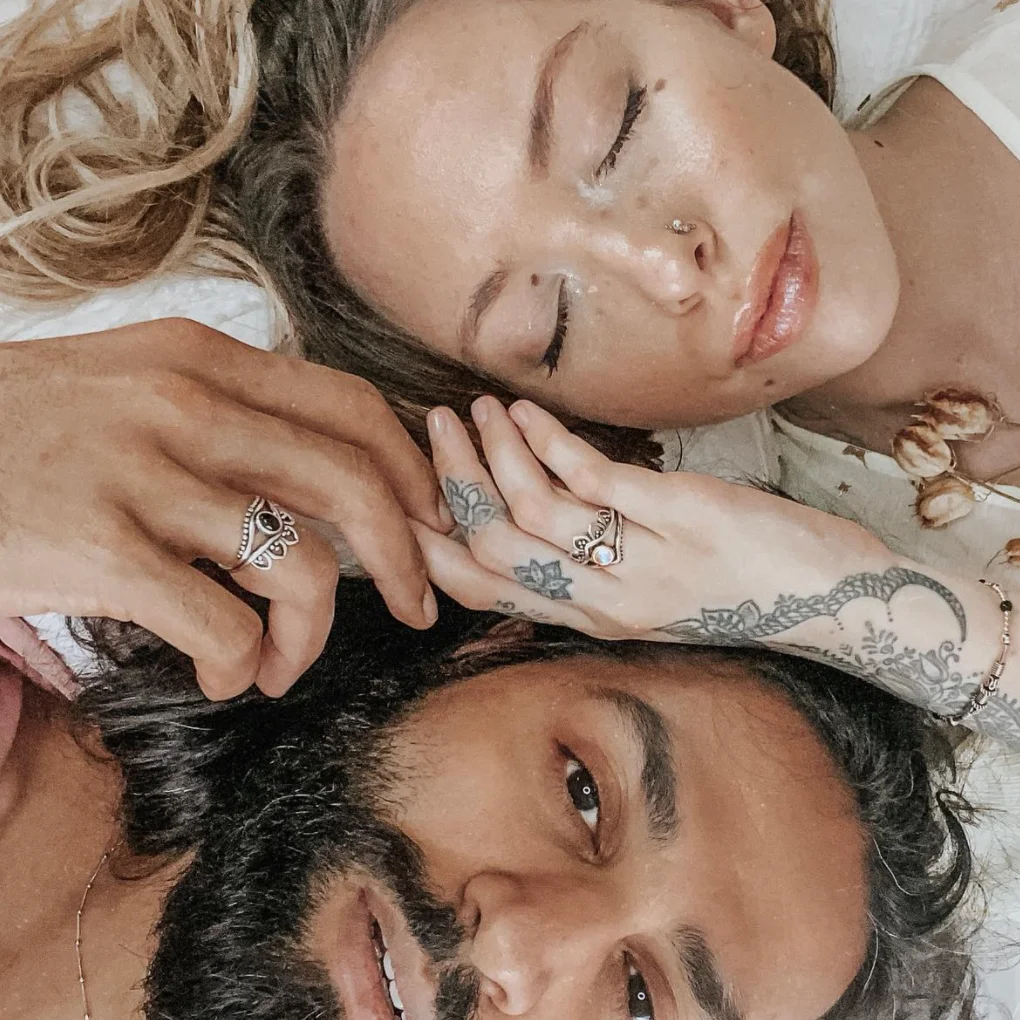
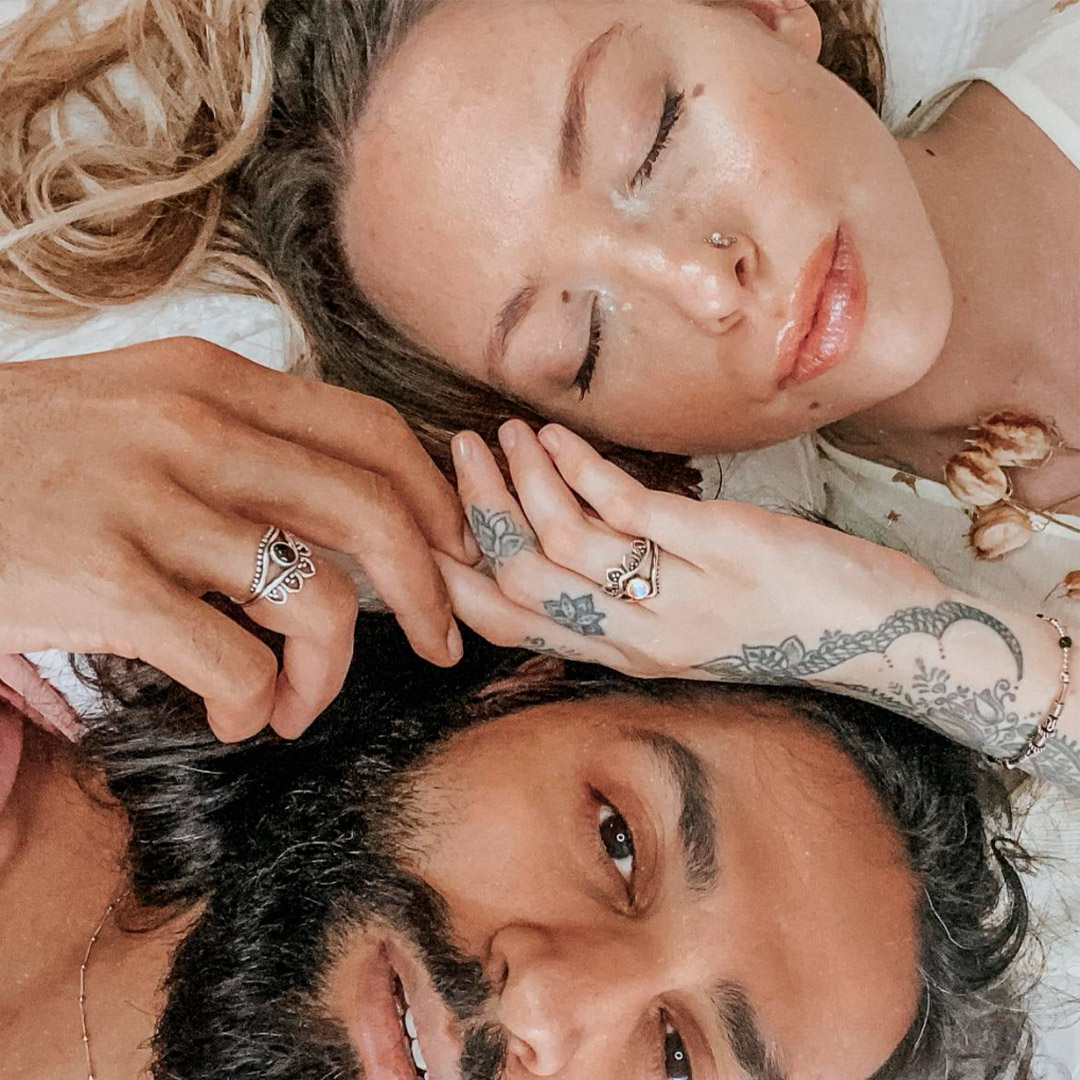
added aspect ratio and compressed images

diff --git a/sass/views/_home.scss b/sass/views/_home.scss
@@ -54,27 +54,9 @@
     width: 100%;
     height: 100%;
     object-fit: cover;
+    aspect-ratio: 1/2;
 }
 
-/*contenedor paginacion con flechas*/
-// .container-paginacion-flechas{
-//     display: flex;
-//     justify-content: space-around;
-    
-
-// }
-// .swiper-pagination{
-//     grid-column:-3 ;
-//     grid-row: 1/2;
-// }
-// .swiper-pagination{
-//     position: inherit;
-//     margin-top: 1em;
-//     display: flex;
-//     justify-content: center;
-//     font-family: $headers;
-//     font-size: 1em;
-// }
 .swiper-button-prev{
     grid-column:1/-3 ;
     grid-row: 3/3;
@@ -88,14 +70,13 @@
     margin-left: 2em;
     margin-top: 2em;
     position: inherit ;
+    &::after{
+        color: #000;
+        font-family:$headers ;
+        content:"<" ;
+    }
 }
-.swiper-button-prev::after{
-    // font-size: 60px;
-    color: #000;
-    font-family:$headers ;
-    content:"<" ;
-    
-}
+
 .swiper-button-disabled {
     opacity: 100% ;
 }
@@ -112,14 +93,12 @@
     margin-right: 2em;
     margin-top: 2em;
     position: inherit ;
-}
-
-.swiper-button-next::after{
-    // font-size: 100px;
-    color: #000;
-    font-family: $headers ;
-    content:">" ;
-    opacity: 100% !important;
+    &::after{
+        color: #000;
+        font-family: $headers ;
+        content:">" ;
+        opacity: 100% !important;
+    }
 }
 
 .swiper-pagination{
@@ -223,16 +202,12 @@
         
         &__title{
             margin: {
-                
                 bottom: 1em;
             }
             // position: absolute;
             width: 350px;
             font-size: 20px;
         }
-        // &__cta{
-        //     margin-top: 6em;
-        // }
     }
 }
 @media (min-width:2000px){
@@ -245,6 +220,7 @@
     
     &__image{
         width: 100%;
+        aspect-ratio: 1/1;
     }
     &__title{
         font-family: $headers;
@@ -302,7 +278,7 @@
         width: 95%;
         position: absolute;
         z-index:-1;
-        
+        aspect-ratio: 1/2;
     }
     &__title{
         display: flex;
@@ -448,6 +424,7 @@
             width: 80%;
             margin-left: 0;
             margin-right: $exterior-margen;
+            aspect-ratio: 1/1;
         }
         &__text{
             @include text-values;
@@ -461,6 +438,7 @@
         &__img{
             width: 80%;
             margin-left: 82px;
+            aspect-ratio: 1/1;
         }
         &__text{
             @include text-values;
@@ -470,6 +448,7 @@
         &__img{
             width: 80%;
             margin-left: 39px;
+            aspect-ratio: 1/1;
         }
         &__title{
             @include titles-values;
@@ -509,6 +488,7 @@
         transform: rotate(90deg);
         width: 300px;
         height: 300px;
+        aspect-ratio: 1/1;
         // width: 80%;
         border-top-right-radius: 50%;
         border-top-left-radius: 50%;
@@ -520,7 +500,7 @@
         &__imgRing{
             margin-top: $atom-margin;
             width: 200px;
-            
+            aspect-ratio: 1/1;
         }
         &__table{
             margin-top: $atom-margin;
@@ -580,6 +560,7 @@
             align-self: flex-end;
             order: -1;
             margin-left: -80px;
+            aspect-ratio: 1/1;
         }
         &__container{
             margin: 0 auto;

diff --git a/css/main.css b/css/main.css
@@ -425,9 +425,9 @@ body {
   height: 100%;
   -o-object-fit: cover;
      object-fit: cover;
+  aspect-ratio: 1/2;
 }
 
-/*contenedor paginacion con flechas*/
 .swiper-button-prev {
   grid-column: 1/-3;
   -ms-grid-row: 3;
@@ -445,7 +445,6 @@ body {
   margin-top: 2em;
   position: inherit;
 }
-
 .swiper-button-prev::after {
   color: #000;
   font-family: PP Hatton;
@@ -474,7 +473,6 @@ body {
   margin-top: 2em;
   position: inherit;
 }
-
 .swiper-button-next::after {
   color: #000;
   font-family: PP Hatton;
@@ -636,6 +634,7 @@ body {
 /*HOME-SECTION MI JOYA PERFECTA*/
 .section-miJoyaPerfecta__image {
   width: 100%;
+  aspect-ratio: 1/1;
 }
 .section-miJoyaPerfecta__title {
   font-family: PP Hatton;
@@ -697,6 +696,7 @@ body {
   width: 95%;
   position: absolute;
   z-index: -1;
+  aspect-ratio: 1/2;
 }
 .section-linksShop__title {
   display: -webkit-box;
@@ -861,6 +861,7 @@ body {
   width: 80%;
   margin-left: 0;
   margin-right: 45px;
+  aspect-ratio: 1/1;
 }
 .section-values__container-silver__text {
   margin-left: 45px;
@@ -876,6 +877,7 @@ body {
 .section-values__container-piedras__img {
   width: 80%;
   margin-left: 82px;
+  aspect-ratio: 1/1;
 }
 .section-values__container-piedras__text {
   margin-left: 45px;
@@ -886,6 +888,7 @@ body {
 .section-values__container-boho__img {
   width: 80%;
   margin-left: 39px;
+  aspect-ratio: 1/1;
 }
 .section-values__container-boho__title {
   font-family: PP Hatton;
@@ -919,6 +922,7 @@ body {
           transform: rotate(90deg);
   width: 300px;
   height: 300px;
+  aspect-ratio: 1/1;
   border-top-right-radius: 50%;
   border-top-left-radius: 50%;
 }
@@ -937,6 +941,7 @@ body {
 .section-sizeGuide__container__imgRing {
   margin-top: 1.2em;
   width: 200px;
+  aspect-ratio: 1/1;
 }
 .section-sizeGuide__container__table {
   margin-top: 1.2em;
@@ -1090,6 +1095,7 @@ body {
         -ms-flex-order: -1;
             order: -1;
     margin-left: -80px;
+    aspect-ratio: 1/1;
   }
   .section-sizeGuide__container {
     margin: 0 auto;
@@ -1218,6 +1224,7 @@ body {
   transition: -webkit-transform 0.2s ease-in;
   transition: transform 0.2s ease-in;
   transition: transform 0.2s ease-in, -webkit-transform 0.2s ease-in;
+  aspect-ratio: 1/1;
 }
 .product__image:hover {
   -webkit-transform: scale(1.1);
@@ -1510,6 +1517,7 @@ body {
 }
 .container-resultsImage__imgResultTest {
   width: 100%;
+  aspect-ratio: 1/1;
 }
 .container-resultsImage__nameResult {
   margin-top: 10px;
@@ -1545,6 +1553,7 @@ body {
   }
   .container-resultsImage__imgResultTest {
     width: 100%;
+    aspect-ratio: 1/1;
   }
   .container-resultsImage__nameResult {
     font-size: 18px;
@@ -1559,6 +1568,7 @@ body {
 /*SECCIÓN COMPRAR PRODUCTO*/
 .comprar-container__img {
   width: 100%;
+  aspect-ratio: 1/1;
 }
 .comprar-container__container-text {
   display: -webkit-box;
@@ -1624,6 +1634,7 @@ body {
   .comprar-container__img {
     margin-left: 118px;
     width: 40%;
+    aspect-ratio: 1/1;
   }
   .comprar-container__titleYprice {
     margin-left: 45px;

diff --git a/sass/views/_comprar.scss b/sass/views/_comprar.scss
@@ -2,6 +2,7 @@
 .comprar-container{
     &__img{
         width: 100%;
+        aspect-ratio: 1/1;
     }
     &__container-text{
         display: flex;
@@ -56,6 +57,7 @@
         &__img{
             margin-left: $section-margin;
             width: 40%;
+            aspect-ratio: 1/1;
         }
         &__titleYprice{
             margin-left: $exterior-margen;

diff --git a/sass/views/_imagesTest.scss b/sass/views/_imagesTest.scss
@@ -19,6 +19,7 @@
     }
     &__imgResultTest{
         width: 100%;
+        aspect-ratio: 1/1;
     }
     &__nameResult{
         margin-top:10px;
@@ -53,6 +54,7 @@
         }
         &__imgResultTest{
             width: 100%;
+            aspect-ratio: 1/1;
         }
         &__nameResult{
             font-size: $p-desk;

diff --git a/sass/views/_shop.scss b/sass/views/_shop.scss
@@ -155,6 +155,7 @@
             width: 100%;
             object-fit:cover;
             transition: transform .2s ease-in;
+            aspect-ratio: 1/1;
             &:hover{
                 transform: scale(1.1);
             }

diff --git a/php/slider.php b/php/slider.php
@@ -4,11 +4,11 @@
             <h1 class="title-jewlery">Terralava</h1>
             <div class="swiper mySwiper">
                 <div class="swiper-wrapper">
-                    <div class="swiper-slide"><img src="./images/slider/slider4.webp" alt="hand with different types rings"></div>
-                    <div class="swiper-slide"><img src="./images/slider/slider2.webp" alt="vase with necklace called lotus necklace"></div>
-                    <div class="swiper-slide"><img src="./images/slider/slider3.webp" alt="model showing earrings called idril"></div>
-                    <div class="swiper-slide"><img src="./images/slider/slider1.webp" alt="hand holding orange leaves with different types of rings on the fingers"></div>
-                    <div class="swiper-slide"><img src="./images/slider/slider5.webp" alt="earring  called eara"></div>
+                    <div class="swiper-slide"><img src="./images/slider/s1.jpg" alt="hand with different types rings"></div>
+                    <div class="swiper-slide"><img src="./images/slider/s2.jpg" alt="vase with necklace called lotus necklace"></div>
+                    <div class="swiper-slide"><img src="./images/slider/s3.jpg" alt="model showing earrings called idril"></div>
+                    <div class="swiper-slide"><img src="./images/slider/s4.jpg" alt="hand holding orange leaves with different types of rings on the fingers"></div>
+                    <div class="swiper-slide"><img src="./images/slider/s5.jpg" alt="earring  called eara"></div>
                 </div>
             </div>
             <h2 class="subtitle-jewlery">Jewels</h2>

diff --git a/php/home.php b/php/home.php
@@ -56,7 +56,7 @@
         </div>
 
         <div class="section-values__container-piedras">
-            <img class="section-values__container-piedras__img" src="<?php echo $path; ?>images/tienda/pulseras/alanis.webp" alt="elastic bracelet with tiger's eye stone, brown">
+            <img class="section-values__container-piedras__img" src="<?php echo $path; ?>images/tienda/pulseras/alanis.jpg" alt="elastic bracelet with tiger's eye stone, brown">
             <h5 class="section-values__container-piedras__title margin-left-mob">PIEDRAS SEMIPRECIOSAS</h5>
             <p class="section-values__container-piedras__text exterior-margin">Estamos unidos y <b>comprometidos con la naturaleza</b> y la energía que sentimos cuando estamos al aire libre. 
             Es por ello que trabajamos con piedras semipreciosas. Nos aportan ciertas <b>propiedades y bienestar</b> según el tipo. De esta manera nuestras joyas no solo te aportan estética sino también <b>riqueza espiritual</b>. 
